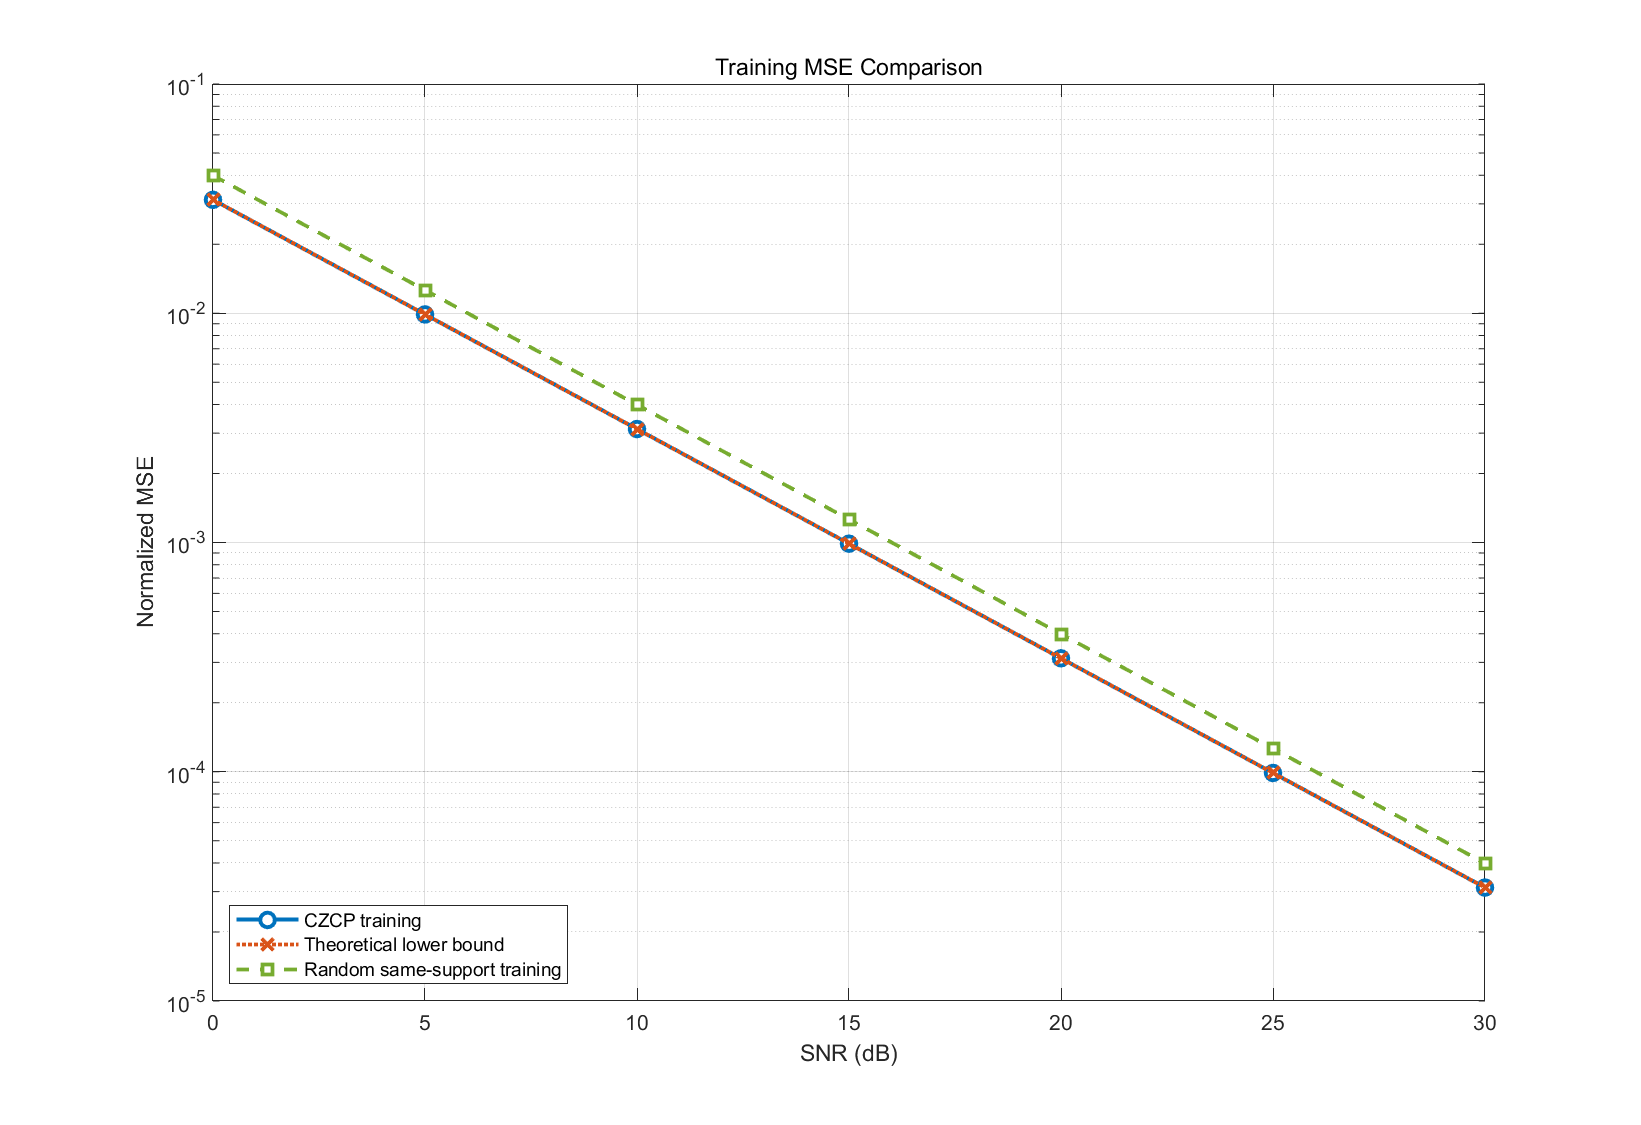
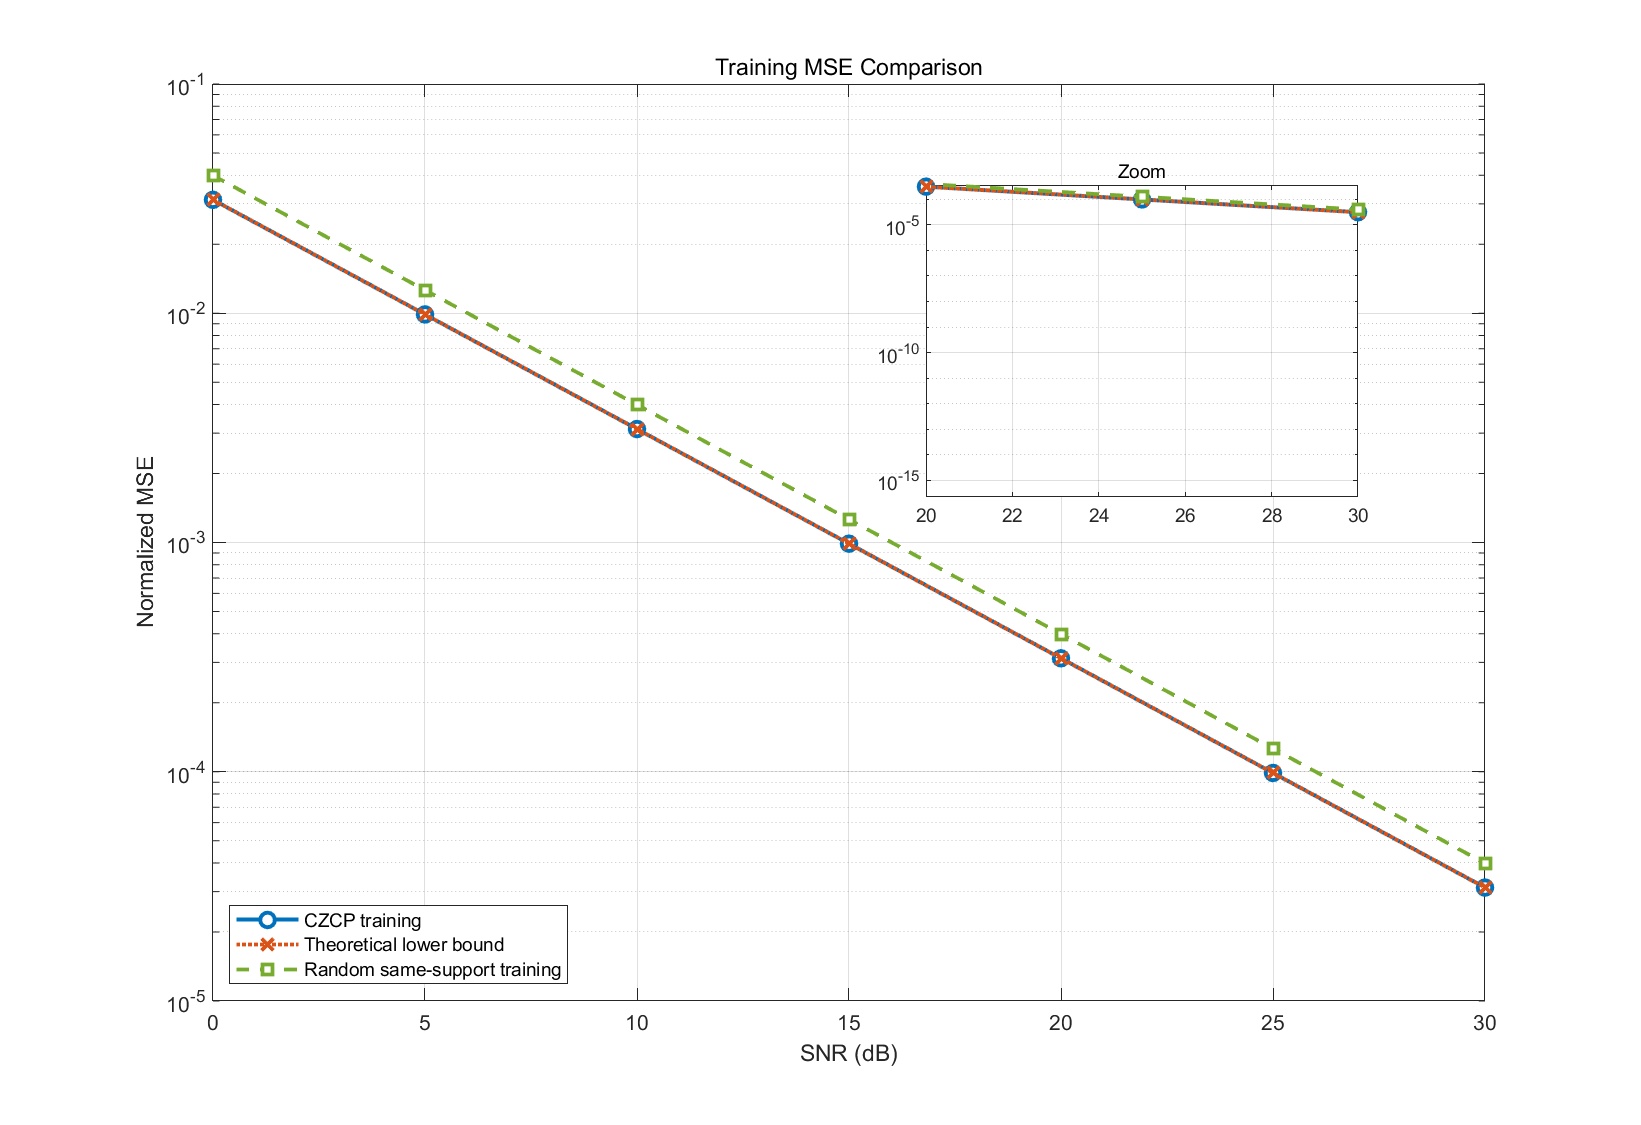
优化图片显示

diff --git a/plot_training_mse_baselines.m b/plot_training_mse_baselines.m
@@ -217,7 +217,7 @@ function add_ebno_inset(parent_ax, ebno_db_grid, ebno_curves, J_list)
     xlabel('');
     ylabel('');
     title('Zoom', 'FontSize', 9);
-    axes(parent_ax);
+    uistack(inset_ax, 'top');
 end
 
 function add_path_inset(parent_ax, path_grid, path_curves)
@@ -237,7 +237,7 @@ function add_path_inset(parent_ax, path_grid, path_curves)
     xlabel('');
     ylabel('');
     title('Zoom', 'FontSize', 9);
-    axes(parent_ax);
+    uistack(inset_ax, 'top');
 end
 
 function ebno_curves = compute_ebno_mse_curves(Nt, a, b, paths, J_list, ebno_db, random_trials)

diff --git a/plot_training_mse_comparison.m b/plot_training_mse_comparison.m
@@ -75,5 +75,5 @@ function add_training_mse_inset(parent_ax, results)
     xlabel('');
     ylabel('');
     title('Zoom', 'FontSize', 9);
-    axes(parent_ax);
+    uistack(inset_ax, 'top');
 end

diff --git a/run_training_mse_experiment.m b/run_training_mse_experiment.m
@@ -119,5 +119,5 @@ function add_training_mse_inset(parent_ax, snr_db, mse_czcp, bound, mse_random)
     xlabel('');
     ylabel('');
     title('Zoom', 'FontSize', 9);
-    axes(parent_ax);
+    uistack(inset_ax, 'top');
 end